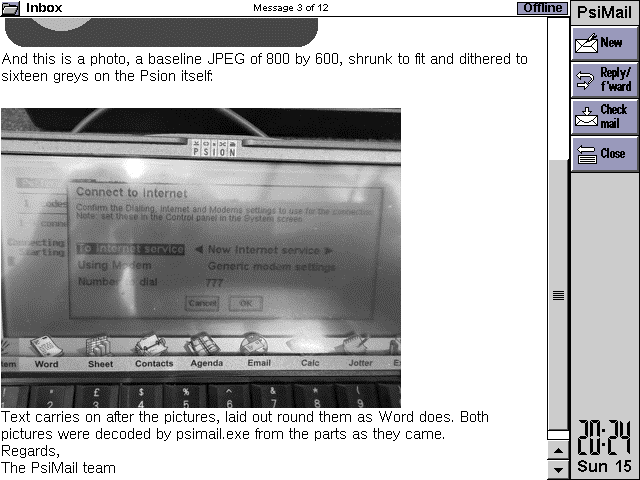
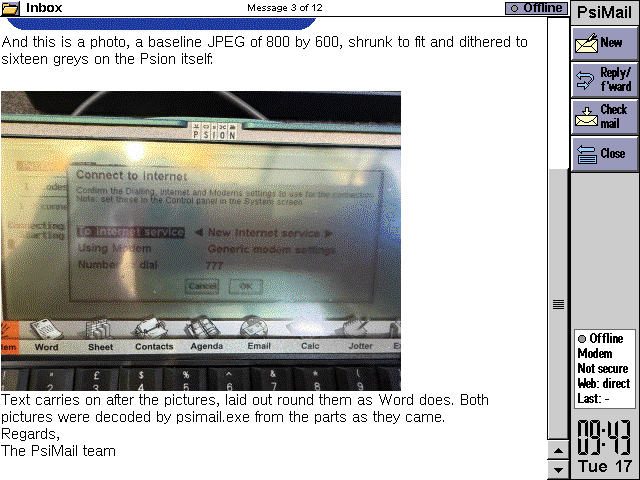
PsiMail 1.04: pictures in colour on the netBook and the Series 7
Core moves on to psion-core dcd9f59: pmimg can keep a progressive JPEG's
colour when asked (PmImgOpts.prog_colour). Nothing changes for any caller
that does not ask: the 16 greys and the Atom modem's colour pictures are
byte for byte as before (50 pictures, ten option sets each), and the Atom's
test_proxy passes unchanged.

- On a colour screen (the app names it in PmShared.screen, as for
  X-Psi-Screen since 1.03) the engine sets pictures out in EPOC's 256
  colours: JPEG (baseline and progressive), PNG and GIF, from the message or
  the web. They are written as "PMI2": the PMI1 header, the rows one byte a
  pixel as EColor256 has them. A reason (a picture not shown) stays PMI1.
- The app reads both (CPmPictures::LoadReadyL): a PMI2 into an EColor256
  bitmap. Pictures set out in greys before 1.04 are the cache: kept as they
  are and still shown (their .img is gone, so they stay grey).
- A message may hold twice the bytes of pictures on a colour screen
  (pic_budget: the same number of pixels), and an interlaced or progressive
  picture 1.5 MB to be set out in.
- The Series 5mx names no screen: its pictures are PMI1, 16 greys, as
  before.
- Help, Pictures in messages: what PsiMail reads, colour on a colour screen.

Tests: test/pictest.sh (new: the newsletters' pictures in greys with no
screen named and in colour with PM_SCREEN=640x480x256; a PMI1 already there
kept byte for byte and counted; the 5 MP progressive photo in colour),
[…]

diff --git a/engine/pictures.c b/engine/pictures.c
@@ -8,7 +8,8 @@
  *                                 it waits to be turned into greys; '.' in the
  *                                 part id becomes '_' ("1.2" -> "123_1_2.img")
  *   <folder>\<uid>_<part>.pmi     the same in 16 greys, shrunk to fit the reader
- *                                 (see PmiHeader below), or a note of why not
+ *                                 (see PmiHeader below), or a note of why not;
+ *                                 (1.04) on a colour screen in EPOC's 256 colours
  *
  * The app reads the .pic list when it shows a message, and asks for the
  * parts it wants (PM_CMD_PICTURES, the ids in arg: "1.2 1.3", a '!' before
@@ -45,15 +46,42 @@
 
 /* the .pmi file: this header, then (status 0 or 1) h rows of stride bytes,
    two pixels a byte as EPOC's EGray16 (the left pixel in the low nibble),
-   or (status 2) a NUL-terminated reason. Little-endian, as ARM and x86 are. */
+   or (status 2) a NUL-terminated reason. Little-endian, as ARM and x86 are.
+   (1.04) "PMI2" is the same header with the rows in colour: one byte a
+   pixel, an index in EPOC's 256-colour palette as EColor256 has them, each
+   row ((w + 3) / 4) * 4 bytes. It is written only for a colour screen (the
+   app said so in PmShared.screen); a reason is always "PMI1". Both are read:
+   the pictures set out in greys before 1.04 stay as they are (their .img
+   is gone), new ones are in colour. */
 typedef struct
 	{
-	char magic[4];           /* "PMI1" */
+	char magic[4];           /* "PMI1", or "PMI2" in colour */
 	unsigned short w, h;     /* the picture as stored */
 	unsigned short src_w, src_h;   /* its own size */
 	unsigned char status;    /* 0 whole, 1 cut short (the rest grey), 2 not shown: a reason follows */
 	unsigned char reserved[3];
 	} PmiHeader;
+
+/* the bytes of a .pmi's picture, as the budget counts them */
+static long pmi_bytes(const PmiHeader *h)
+{
+	if (h->status == 2) return 0;
+	if (h->magic[3] == '2') return ((h->w + 3L) / 4) * 4L * h->h;
+	return ((h->w + 7L) / 8) * 4L * h->h;
+}
+
+/* (1.04) a colour screen (the app writes PmShared.screen only on one):
+   pictures are set out in colour, and a message may hold twice the bytes
+   (the same number of pixels) */
+static int pic_colour(void)
+{
+	return pm_shared()->screen[0] != 0;
+}
+
+long pic_budget(void)
+{
+	return PM_PIC_BUDGET_KB * 1024L * (pic_colour() ? 2 : 1);
+}
 
 typedef struct
 	{
@@ -207,7 +235,7 @@ static int write_pmi(const char *path, const PmImage *img, const char *reason)
 	int ok;
 	snprintf(tmp, sizeof(tmp), "%s.new", path);
 	memset(&h, 0, sizeof(h));
-	memcpy(h.magic, "PMI1", 4);
+	memcpy(h.magic, img && img->colour ? "PMI2" : "PMI1", 4);
 	if (img) {
 		h.w = (unsigned short)img->w;
 		h.h = (unsigned short)img->h;
@@ -235,7 +263,7 @@ static int pmi_read_header(const char *path, PmiHeader *h)
 	FILE *f = fopen(path, "rb");
 	int ok;
 	if (!f) return -1;
-	ok = fread(h, 1, sizeof(*h), f) == sizeof(*h) && !memcmp(h->magic, "PMI1", 4);
+	ok = fread(h, 1, sizeof(*h), f) == sizeof(*h) && (!memcmp(h->magic, "PMI1", 4) || !memcmp(h->magic, "PMI2", 4));
 	fclose(f);
 	return ok ? 0 : -1;
 }
@@ -316,6 +344,14 @@ static int decode_part2(const char *img_path, const char *pmi_path, const char *
 	o.max_w = PM_PIC_MAX_W;
 	o.max_h = PM_PIC_MAX_H;
 	o.max_full_bytes = 640L * 1024L;
+	if (pic_colour()) {
+		/* (1.04) the netBook: in colour, a progressive JPEG too; an interlaced
+		   PNG or GIF is kept whole at three bytes a pixel, and a progressive
+		   JPEG's chroma is kept as well as its luma, so more room for both */
+		o.colour = 1;
+		o.prog_colour = 1;
+		o.max_full_bytes = 1536L * 1024L;
+	}
 	o.abort = pic_abort;
 	o.abort_ctx = &a;
 	pic_greys(&o);
@@ -334,7 +370,7 @@ static int decode_part2(const char *img_path, const char *pmi_path, const char *
 			pm_log("picture %s: %dx%d", label, sw, sh);
 			int fw = (sw + o.max_w - 1) / o.max_w, fh = (sh + o.max_h - 1) / o.max_h, fs = fw > fh ? fw : fh;
 			long ow = (sw + fs - 1) / fs, oh = (sh + fs - 1) / fs;
-			if (((ow + 7) / 8) * 4L * oh > budget_left) {
+			if ((o.colour ? ((ow + 3) / 4) * 4L : ((ow + 7) / 8) * 4L) * oh > budget_left) {
 				remove(img_path);
 				pm_log("picture %s: %dx%d would be over the message's budget", label, sw, sh);
 				snprintf(note, notemax, "too many pictures in this message");
@@ -361,8 +397,8 @@ static int decode_part2(const char *img_path, const char *pmi_path, const char *
 		return w ? -1 : 1;
 	}
 	w = write_pmi(pmi_path, &img, 0);
-	pm_log("picture %s: %dx%d -> %dx%d%s in %lu ms", label, img.src_w, img.src_h, img.w, img.h,
-		img.partial ? " (cut short)" : "", pm_ms() - a.start);
+	pm_log("picture %s: %dx%d -> %dx%d%s%s in %lu ms", label, img.src_w, img.src_h, img.w, img.h,
+		img.colour ? " in colour" : "", img.partial ? " (cut short)" : "", pm_ms() - a.start);
 	pmimg_free(&img);
 	return w ? -1 : 0;
 }
@@ -372,7 +408,7 @@ int pic_fetch(int acct, const char *folder, unsigned int uid, const char *parts,
 	static PicEntry e[PIC_MAX_PARTS];
 	PmShared *s = pm_shared();
 	int n, i, r = PM_RES_OK, done = 0, shown = 0, notshown = 0, wanted = 0, k;
-	long budget = PM_PIC_BUDGET_KB * 1024L;
+	long budget = pic_budget();
 	const char *p = parts;
 	char want[PIC_MAX_PARTS][16];
 	int force[PIC_MAX_PARTS], nwant = 0;
@@ -397,7 +433,7 @@ int pic_fetch(int acct, const char *folder, unsigned int uid, const char *parts,
 		char pmi[200];
 		PmiHeader h;
 		pic_path(acct, folder, uid, e[i].part, "pmi", pmi, sizeof(pmi));
-		if (pmi_read_header(pmi, &h) == 0 && h.status != 2) budget -= ((h.w + 7) / 8) * 4L * h.h;
+		if (pmi_read_header(pmi, &h) == 0) budget -= pmi_bytes(&h);
 	}
 	note[0] = 0;
 	for (k = 0; k < nwant && !pm_cancelled(); k++) {
@@ -446,7 +482,7 @@ int pic_fetch(int acct, const char *folder, unsigned int uid, const char *parts,
 		if (d < 0) { pm_write_why(why, whymax, "the picture", pmi); r = PM_RES_FAILED; break; }
 		if (d == 0) {
 			PmiHeader h;
-			if (pmi_read_header(pmi, &h) == 0) budget -= ((h.w + 7) / 8) * 4L * h.h;
+			if (pmi_read_header(pmi, &h) == 0) budget -= pmi_bytes(&h);
 			shown++;
 		} else notshown++;
 		done++;

diff --git a/app/pmpict.cpp b/app/pmpict.cpp
@@ -6,7 +6,11 @@
 // the .pmi file's header (engine/pictures.c): "PMI1", w, h, src w, src h
 // (16-bit, little-endian), status (0 whole, 1 cut short, 2 not shown:
 // a reason follows), 3 spare bytes; then the rows, two pixels a byte as
-// EGray16 has them, each row ((w + 7) / 8) * 4 bytes
+// EGray16 has them, each row ((w + 7) / 8) * 4 bytes. (1.04) "PMI2": the
+// same header, the rows in colour, one byte a pixel as EColor256 has them
+// (an index in EPOC's 256 colours), each row ((w + 3) / 4) * 4 bytes; the
+// engine writes it on a colour screen. Both are read, so pictures set out
+// in greys before 1.04 still show.
 const TInt KPmiHeader = 16;
 
 CPmPictures* CPmPictures::NewL()
@@ -217,6 +221,7 @@ static TUint16 Le16(const TUint8* p)
 	}
 
 // the decoded picture, if the engine has written it: into a 16-grey bitmap
+// (or, for a "PMI2", a 256-colour one)
 TBool CPmPictures::LoadReadyL(RFs& aFs, TInt aIndex)
 	{
 	TPmPicEntry& e = (*iEntries)[aIndex];
@@ -230,7 +235,8 @@ TBool CPmPictures::LoadReadyL(RFs& aFs, TInt aIndex)
 	CleanupClosePushL(f);
 	TBuf8<KPmiHeader> h;
 	User::LeaveIfError(f.Read(h));
-	if (h.Length() < KPmiHeader || h.Left(4) != _L8("PMI1"))
+	TBool colour = h.Length() >= KPmiHeader && h.Left(4) == _L8("PMI2");
+	if (h.Length() < KPmiHeader || (h.Left(4) != _L8("PMI1") && !colour))
 		{
 		CleanupStack::PopAndDestroy();             // f
 		e.iState = TPmPicEntry::EFailed;
@@ -262,9 +268,10 @@ TBool CPmPictures::LoadReadyL(RFs& aFs, TInt aIndex)
 		}
 	CFbsBitmap* bmp = new(ELeave) CFbsBitmap;
 	CleanupStack::PushL(bmp);
-	User::LeaveIfError(bmp->Create(TSize(w, hh), EGray16));
-	TInt stride = CFbsBitmap::ScanLineLength(w, EGray16);
-	TInt fileStride = ((w + 7) / 8) * 4;
+	TDisplayMode mode = colour ? EColor256 : EGray16;
+	User::LeaveIfError(bmp->Create(TSize(w, hh), mode));
+	TInt stride = CFbsBitmap::ScanLineLength(w, mode);
+	TInt fileStride = colour ? ((w + 3) / 4) * 4 : ((w + 7) / 8) * 4;
 	if (stride == fileStride)
 		{
 		// the rows are laid out as the bitmap wants them: straight in

diff --git a/engine/webpics.c b/engine/webpics.c
@@ -8,7 +8,8 @@
  * for https), and sets them out as pictures.c does its parts:
  *
  *   <folder>\<uid>_W<hash>.img   one picture as it came, while it waits
- *   <folder>\<uid>_W<hash>.pmi   the same in 16 greys (pictures.c), or why not
+ *   <folder>\<uid>_W<hash>.pmi   the same in 16 greys (pictures.c; in colour on a
+ *                                colour screen), or why not
  *
  * <hash> is FNV-1a (32 bits, 8 hex digits) of the address as the message's
  * text has it (html.c: "\x01i" alt "\x02" src ["\x02" w "x" h]); the app
@@ -366,7 +367,7 @@ int web_fetch(int acct, const char *folder, unsigned int uid, char *why, int why
 	static WebPic pics[WEB_MAX];
 	PmShared *s = pm_shared();
 	int n, i, shown = 0, failed = 0, r = PM_RES_OK, hosts = 0;
-	long total = 0, budget = PM_PIC_BUDGET_KB * 1024L;
+	long total = 0, budget = pic_budget();
 	unsigned long t0 = pm_ms();
 	char note[80], label[40], last_host[80];
 
@@ -411,7 +412,7 @@ int web_fetch(int acct, const char *folder, unsigned int uid, char *why, int why
 			if (ok) {
 				int sw = h[8] | (h[9] << 8), sh = h[10] | (h[11] << 8), w = h[4] | (h[5] << 8), hh = h[6] | (h[7] << 8);
 				if (sw < 4 || sh < 4) { note_pmi(pmi, "spacer"); pm_log("web picture %d: %dx%d - a spacer", i + 1, sw, sh); }
-				else { budget -= ((w + 7) / 8) * 4L * hh; shown++; }
+				else { budget -= (h[3] == '2' ? ((w + 3) / 4) * 4L : ((w + 7) / 8) * 4L) * hh; shown++; }
 			}
 		} else failed++;
 		st_changed();

diff --git a/engine/pm.h b/engine/pm.h
@@ -209,6 +209,7 @@ void pic_write_index(int acct, const char *folder, unsigned int uid, const PmStr
 void pic_remove(int acct, const char *folder, unsigned int uid);   /* all of a message's picture files */
 int  pic_fetch(int acct, const char *folder, unsigned int uid, const char *parts, char *why, int whymax);
 /* one picture file to its .pmi, below the app (0 shown, 1 not: the .pmi says why, -1 could not write) */
+long pic_budget(void);                 /* (1.04) a message's decoded pictures: twice on a colour screen */
 int  pic_decode_file(const char *img_path, const char *pmi_path, const char *label, long budget_left, char *note, int notemax);
 /* ---- pictures from the web, when asked for (webpics.c) */
 int  pm_send_log(char *why, int whymax);   /* PM_CMD_PUTLOG: POST the logs to the web proxy (webpics.c) */

diff --git a/host/pmhost.c b/host/pmhost.c
@@ -169,6 +169,7 @@ int main(int argc, char **argv)
 	g_sh.net.rtscts = atoi(env("PM_RTSCTS", "0"));
 	g_sh.prefetch = atoi(env("PM_PREFETCH", "0"));
 	g_sh.web_pic_proxy = atoi(env("PM_WEBPIC_PROXY", "0"));   /* tests: route web pictures via the proxy */
+	snprintf(g_sh.screen, sizeof(g_sh.screen), "%s", env("PM_SCREEN", ""));   /* tests: a colour screen ("640x480x256"): pictures in colour */
 	/* tests: the shared proxy (PsiLink.ini on the device); with PM_WEBPIC_PROXY=1 and no
 	   PM_PROXY_HOST it is a PsiProxy on this machine */
 	snprintf(g_sh.proxy_host, sizeof(g_sh.proxy_host), "%s", env("PM_PROXY_HOST", g_sh.web_pic_proxy ? "127.0.0.1" : ""));

diff --git a/app/psimail.cpp b/app/psimail.cpp
@@ -113,7 +113,7 @@ static void SaveSharedLink(RFs& aFs, const TPmSettings& aSettings, const TDesC& 
 
 _LIT(KEngineExe, "psimail.exe");
 _LIT(KIniFile, "C:\\System\\Apps\\PsiMail\\PsiMail.ini");
-_LIT(KVersion, "1.03");          // also pkg/psimail.pkg
+_LIT(KVersion, "1.04");          // also pkg/psimail.pkg
 _LIT(KPmLogIsOff, "Logging is off - turn on Tools > Troubleshooting > Keep a log");   // (0.93)
 const TInt KTick = 250000;       // look at the engine 4 times a second
 const TInt KTickQuiet = 2000000; // (0.81) ...or every 2 s when nothing is going on: the doorbell brings news

diff --git a/README.md b/README.md
@@ -11,7 +11,7 @@ checked, and keeps the Psion's own Agenda in step with Fastmail's calendars
 WiRSa (`ATDT host:port`) or the Psion's own dial-up TCP/IP - and PsiTerm's
 TLS 1.3 client.
 
-**Status: 1.03, alpha.** The engine has been run against Dovecot, Radicale
+**Status: 1.04, alpha.** The engine has been run against Dovecot, Radicale
 and Fastmail both as PC code and as the exact ARM code in an emulator, and the
 EIKON app is driven screen by screen in a 5mx emulator. Expect bugs, and
 please report them via [GitHub issues](https://github.com/danieledge/psimail/issues).
@@ -22,7 +22,7 @@ please report them via [GitHub issues](https://github.com/danieledge/psimail/iss
 
 ## Contents
 
-- [What's new in 1.03](#whats-new-in-103) (and [1.02](#102), [1.01](#101), [1.00](#100), [0.96](#096))
+- [What's new in 1.04](#whats-new-in-104) (and [1.03](#103), [1.02](#102), [1.01](#101), [1.00](#100), [0.96](#096))
 - [Screenshots](#screenshots)
 - [What it does](#what-it-does)
 - [Setting up Fastmail](#setting-up-fastmail)
@@ -37,7 +37,26 @@ please report them via [GitHub issues](https://github.com/danieledge/psimail/iss
 - [The suite](#the-suite)
 - [Not yet](#not-yet)
 
-## What's new in 1.03
+## What's new in 1.04
+
+Pictures in colour on the netBook and the Series 7:
+
+- **Pictures in a message are in colour** on a colour screen: JPEG
+  (baseline and progressive), PNG and GIF, set out in the screen's own 256
+  colours, so a photo is no longer 16 greys on a colour screen. Web
+  pictures too, whether they come direct or through PsiProxy or the Atom
+  modem.
+- **Pictures already set out keep working.** A picture PsiMail set out in
+  greys before 1.04 is kept as it was and still shows; pictures set out
+  from now on are in colour. A message can hold twice the bytes of
+  pictures on a colour screen (the same number of pixels).
+- **The Series 5mx does not change**: its pictures are 16 greys, byte for
+  byte as before.
+- psion-core's picture decoders can now keep a progressive JPEG's colour
+  (`prog_colour`); only PsiMail asks for it, so the Atom modem's pictures
+  are as they were.
+
+### 1.03
 
 Knowing your route, on every machine:
 
@@ -179,7 +198,7 @@ Since 0.93, the last signed release.
 
 ## Screenshots
 
-PsiMail on the netBook (1.03: the inbox and the calendar) and the Series 5mx (0.96, which looks the same), with the same demo account, mail and calendar (made up). Taken in emulators. Tap or click one to see it full size.
+PsiMail on the netBook (1.04: the inbox, the pictures in colour and the calendar) and the Series 5mx (0.96, which looks the same), with the same demo account, mail and calendar (made up). Taken in emulators. Tap or click one to see it full size.
 
 <table>
 <tr><th>netBook</th><th>Series 5mx</th></tr>
@@ -198,7 +217,7 @@ PsiMail on the netBook (1.03: the inbox and the calendar) and the Series 5mx (0.
 <td><a href="docs/screenshots/netbook-psimail-reader-logo.png"><img src="docs/screenshots/netbook-psimail-reader-logo.png" alt="netBook: the start of a message, with a PNG logo" width="400"></a></td>
 <td><a href="docs/screenshots/5mx-psimail-reader-logo.png"><img src="docs/screenshots/5mx-psimail-reader-logo.png" alt="Series 5mx: the start of a message, with a PNG logo" width="400"></a></td>
 </tr>
-<tr><td colspan="2"><b>Further down: a photo, dithered on the Psion</b></td></tr>
+<tr><td colspan="2"><b>Further down: a photo, set out on the Psion itself: in colour on the netBook, in 16 greys on the 5mx</b></td></tr>
 <tr>
 <td><a href="docs/screenshots/netbook-psimail-reader.png"><img src="docs/screenshots/netbook-psimail-reader.png" alt="netBook: a JPEG photo in a message" width="400"></a></td>
 <td><a href="docs/screenshots/5mx-psimail-reader.png"><img src="docs/screenshots/5mx-psimail-reader.png" alt="Series 5mx: a JPEG photo in a message" width="400"></a></td>

diff --git a/CLAUDE.md b/CLAUDE.md
@@ -77,7 +77,7 @@ becomes the reader's line format); `store.c` (the local store); the
 calendar engine is core's `core/mail/engine/cal/` (`caldav.c`, `http.c`,
 `ics.c`, `caltz.c`, `xmlscan.c`, `cp1252.c`, shared with PsiSync), given
 PsiMail's settings by `pmcalport.c`; `pictures.c` (on `core/mail/engine/img`,
-producing 16-grey `.pmi` files); `webpics.c`, `http.c`; `invite.c` (iTIP);
+producing `.pmi` files: 16 greys, or EPOC's 256 colours on a colour screen); `webpics.c`, `http.c`; `invite.c` (iTIP);
 `undo.c`; `pmupdate.c`; the certificate check is core's `core/mail/engine/tlsv/`; `pmnet.c`; `pmepoc.cpp`
 (the EPOC side). `tls/` configures core's TLS for PsiMail (`includes.h`,
 `options.h`, `x25519.c`). `host/pmhost.c` is the PC build of the engine, on
@@ -108,7 +108,8 @@ core/tools/docker/psibuild "cd test && bash foldertest.sh"
 
 Host tests (`test/`, after `bash build.sh host` or `make TARGET=host`):
 `foldertest.sh`, `undotest.sh`, `logintest.sh`, `invtest.py`, `invitehost.py`, `htmltest.py`,
-`imgtest.py` (ASan/UBSan, fuzzing the picture decoders), `parsefuzz.py`
+`imgtest.py` (ASan/UBSan, fuzzing the picture decoders), `pictest.sh` (pictures
+in greys and in colour, and the old cache), `parsefuzz.py`
 (MIME/IMAP/ICS/XML/HTML fuzzer), `certtest.py`. `fakeimap.py` is a
 scriptable fake server. All network input is untrusted: run `parsefuzz.py`
 and `imgtest.py` after changing a parser, and use bounded copies everywhere.

diff --git a/test/README.md b/test/README.md
@@ -322,3 +322,16 @@ another way (mkcard.ts with another EMU_PAD, or the program's files written
 over an older card) before suspecting the program. The seeded tours'
 TESTSEED block also sets iFirstStart to EFalse, so they start without the
 setup assistant (1.03); the first-run tour shows it.
+
+## Pictures in colour (1.04)
+
+`pictest.sh`: the pictures of fakeimap.py's newsletters (`--news`) set out
+by the engine with no screen named (the 5mx: every `.pmi` is "PMI1", 16
+greys, as always) and with `PM_SCREEN=640x480x256` (the netBook: "PMI2",
+one byte a pixel in EPOC's 256 colours, a progressive JPEG too, the 5 MP
+photo within the memory). A "PMI1" set out before 1.04 and already there on
+the colour screen is the cache: left byte for byte as it was. In the
+emulator the seed's `111_2.PMI` (a "PMI1") is the same check on the
+netBook: message 111's diagram still shows, in greys, beside its GIF in
+colour. psion-core's own test of the decoders in colour is
+`make -C core/mail/engine/img/test`.
